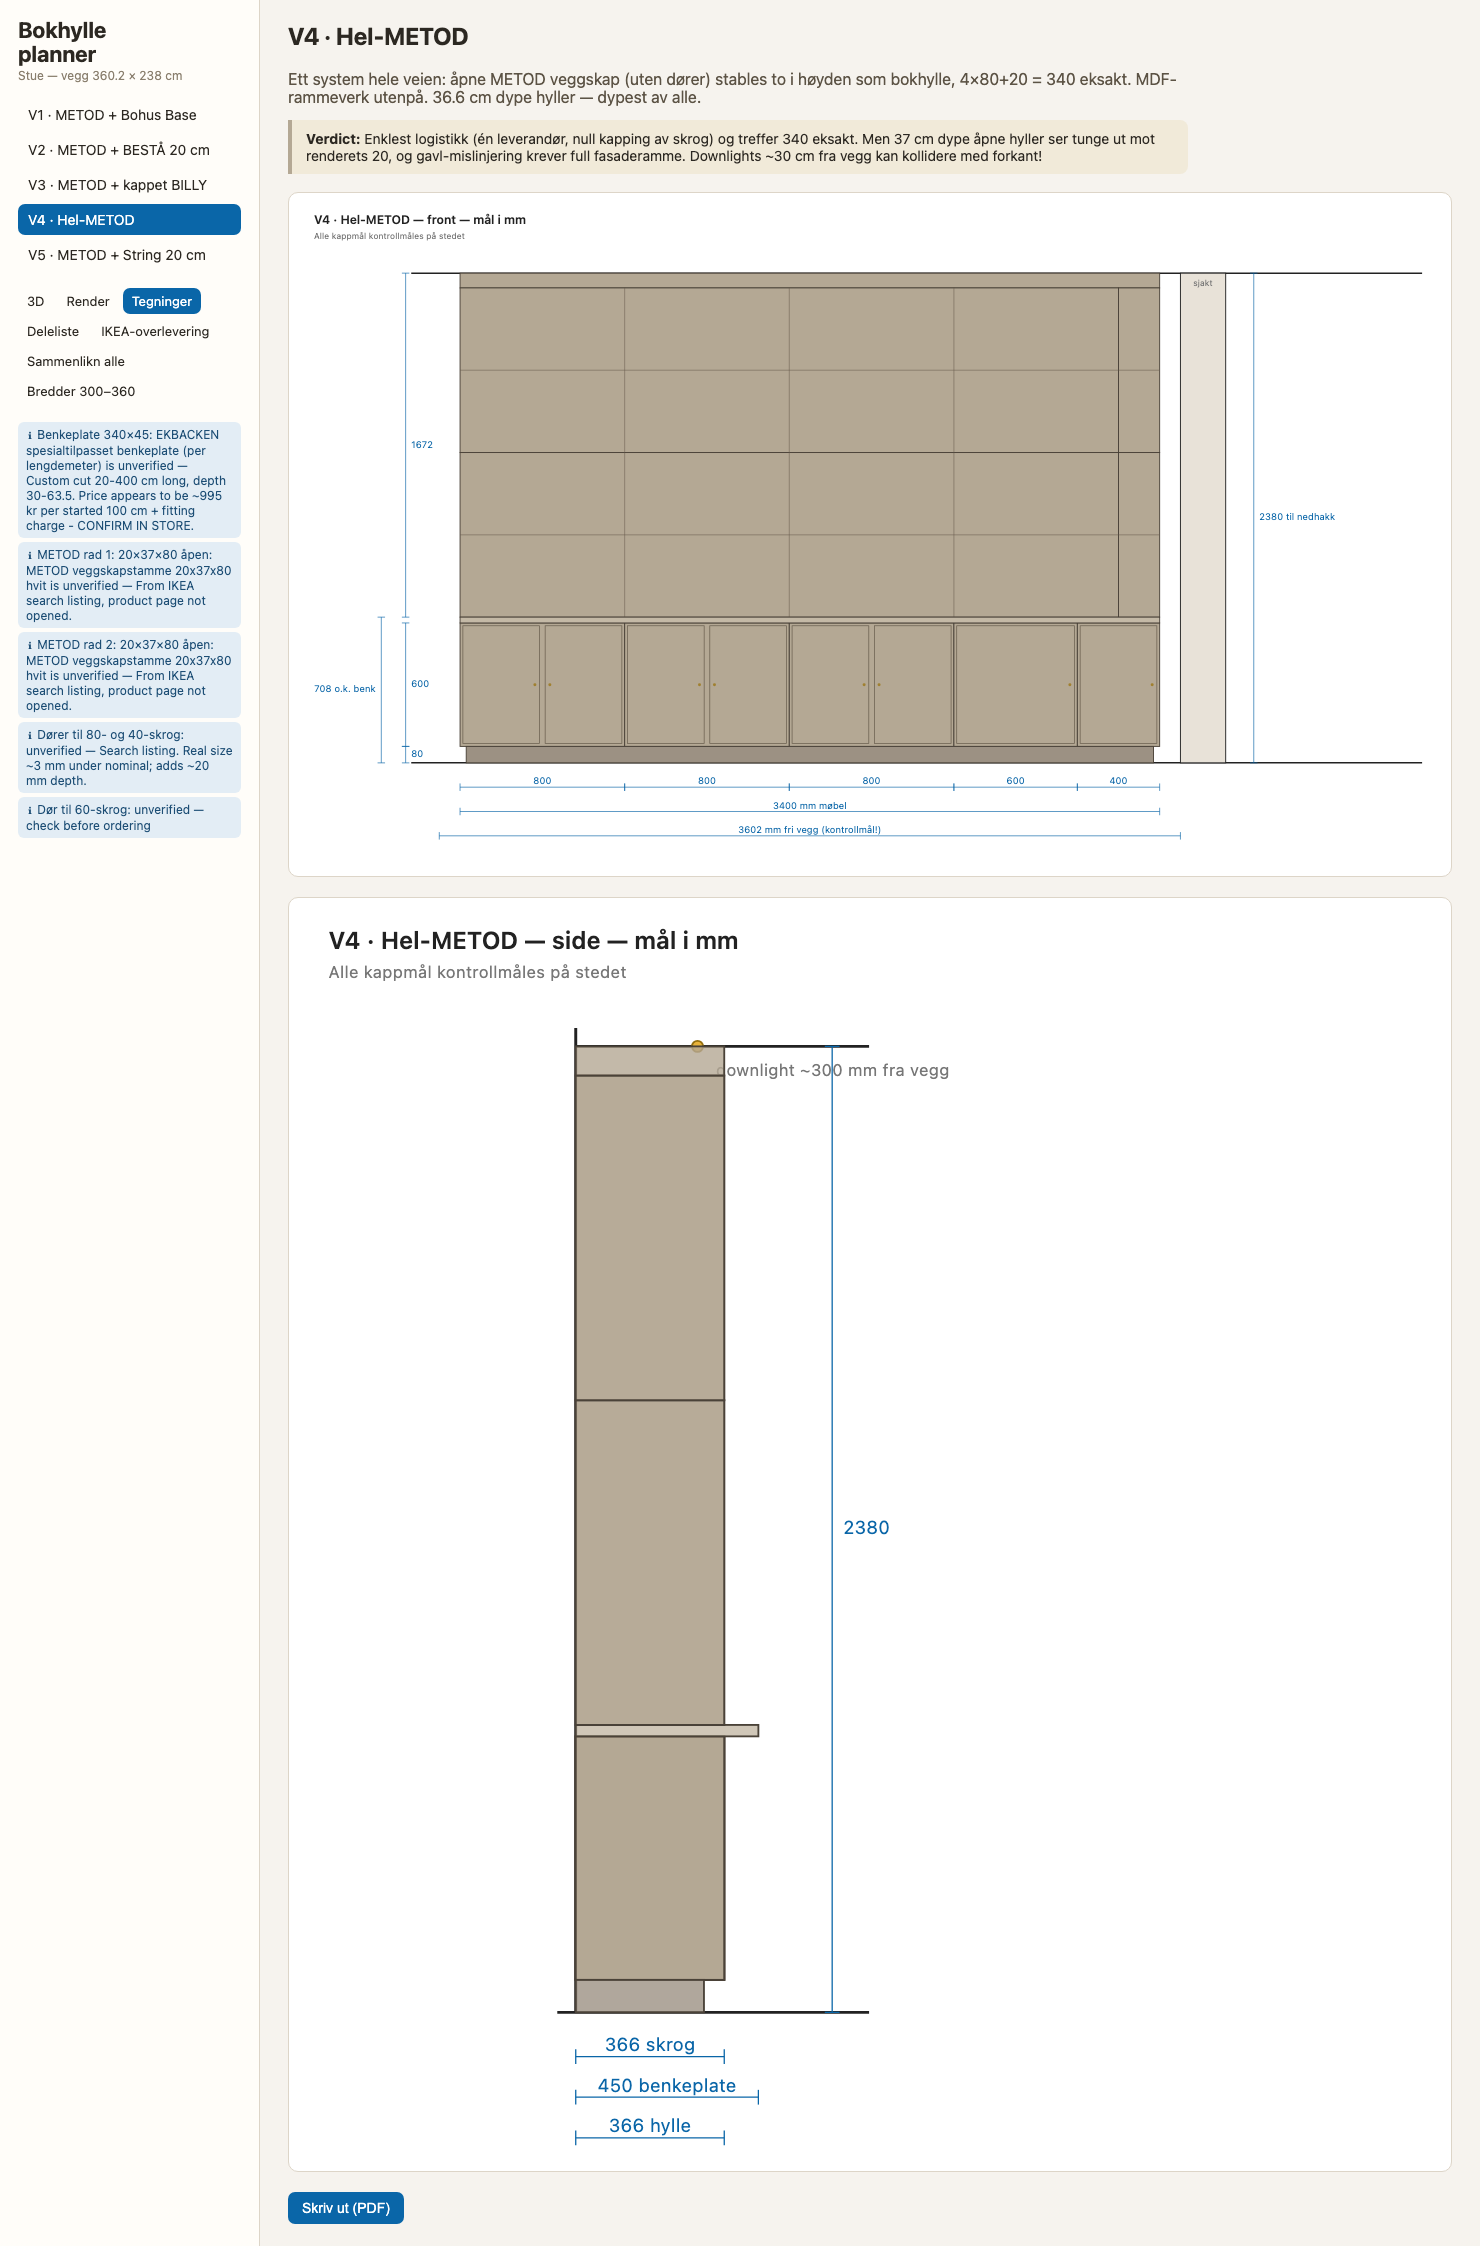
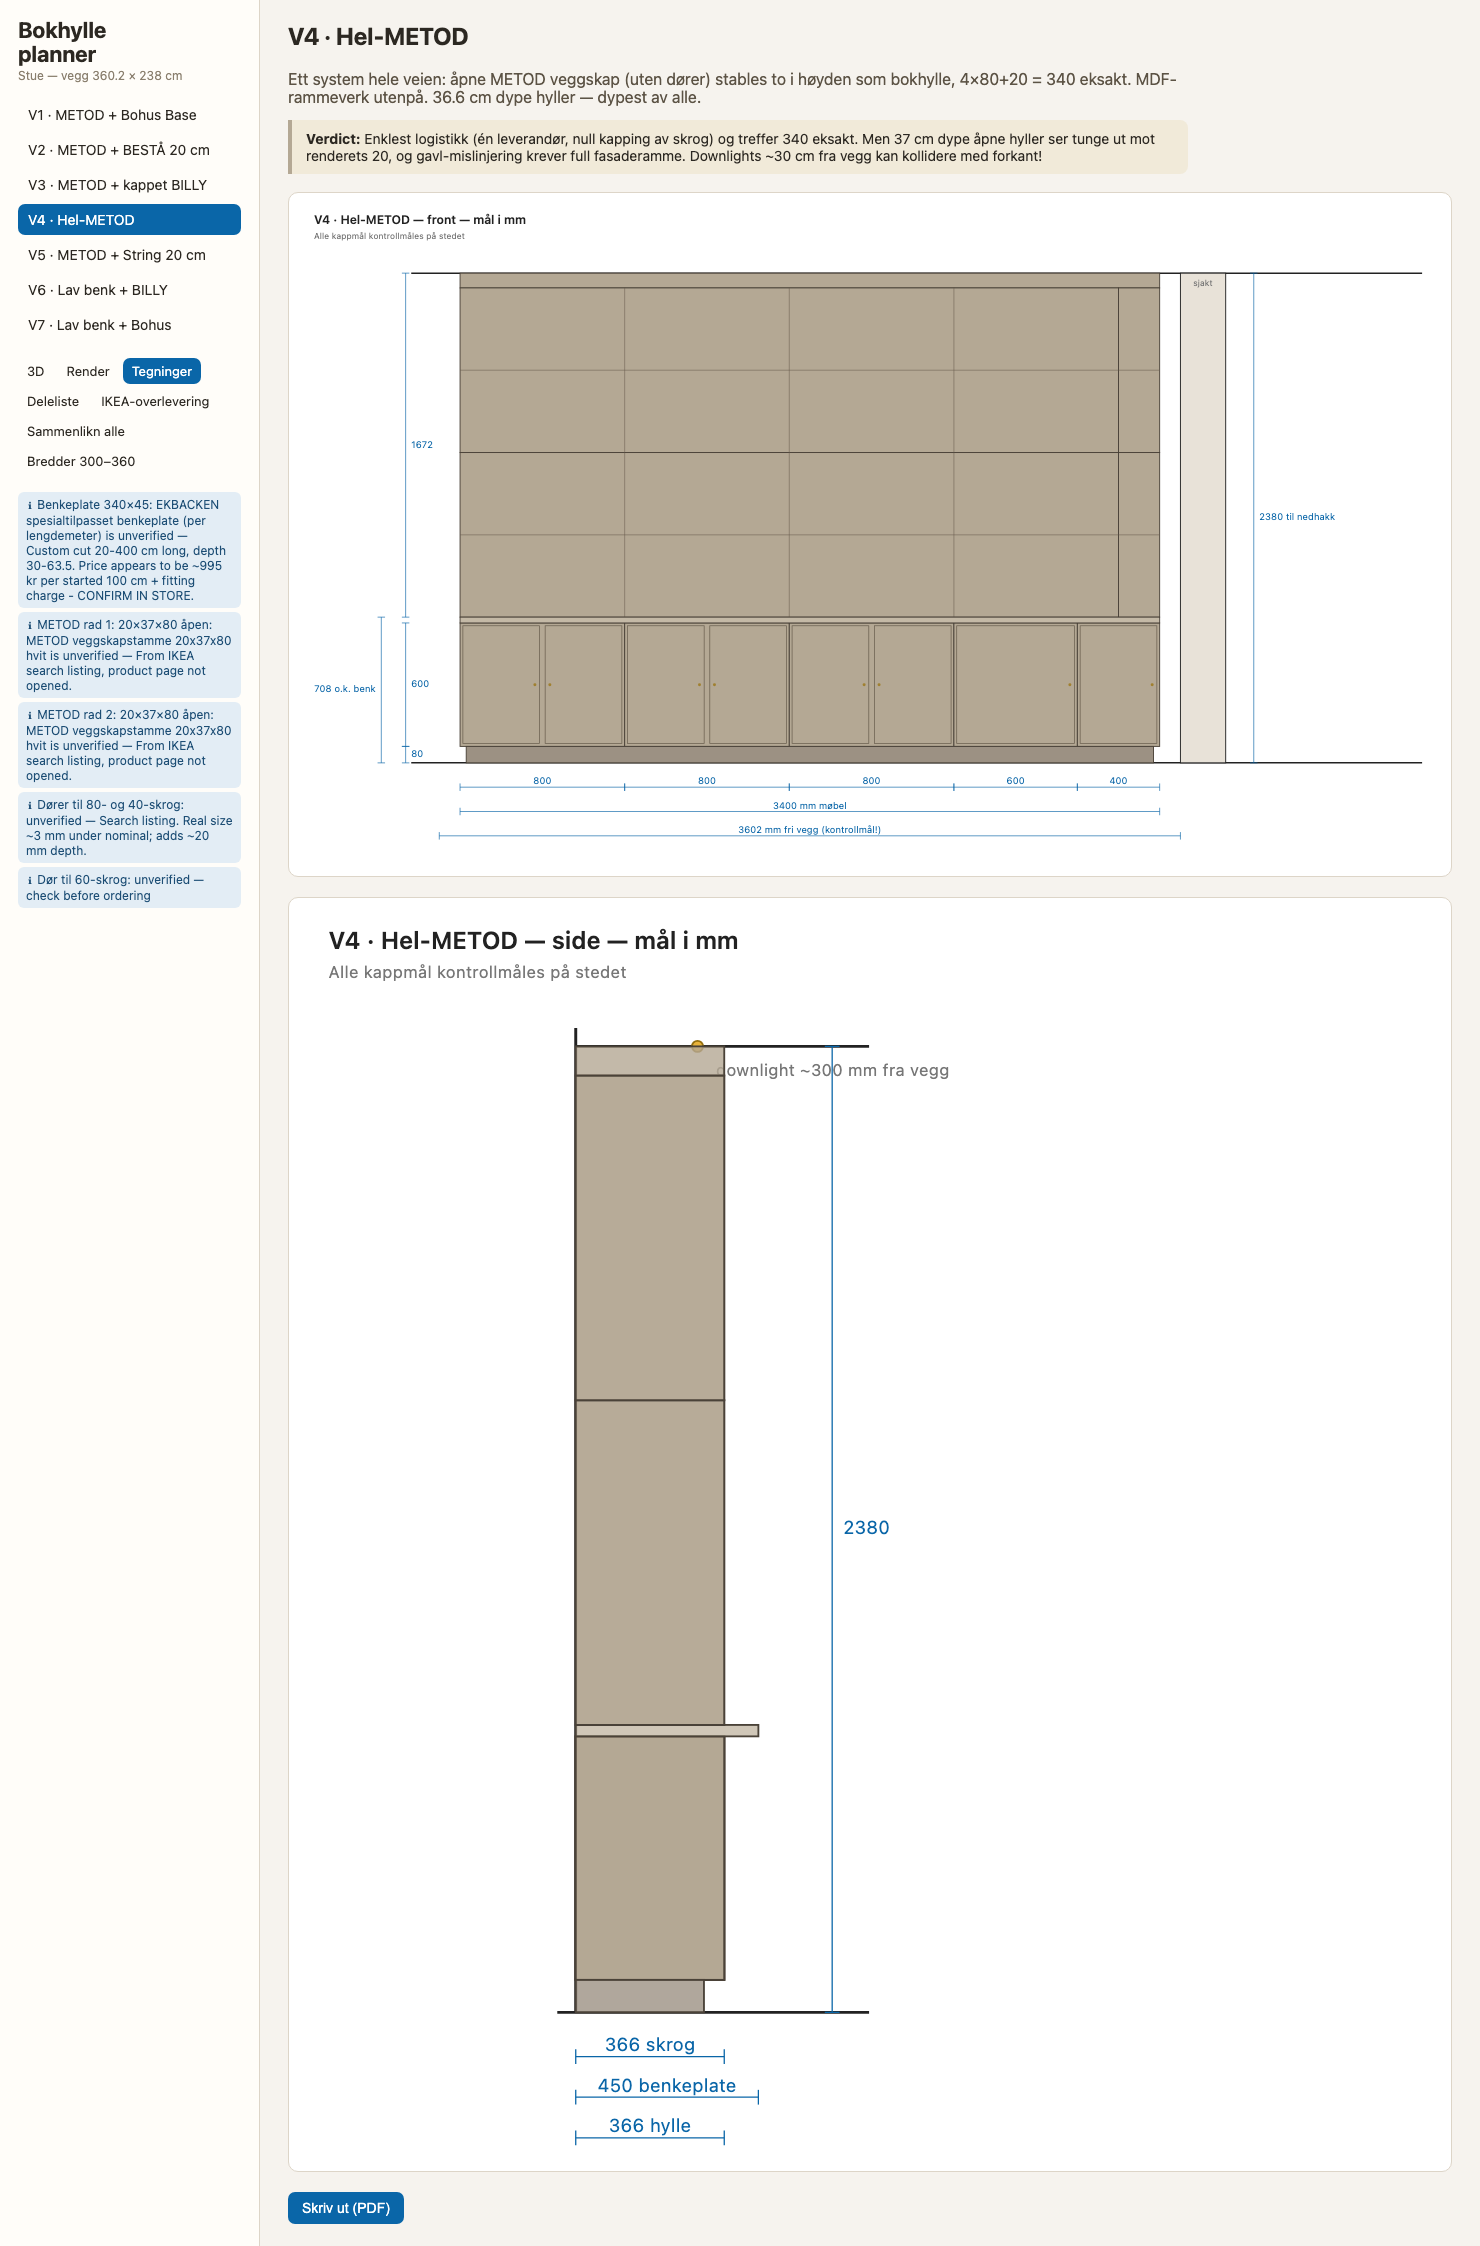
Low-bench variants V6/V7 (livingetc-style METOD 40 cm frames)
Bench drops to 50.8 cm (seat height): 4×80 METOD wall frames 80x37x40,
VEDDINGE 40x40 doors (no shaker front exists in 40-height - verified via
IKEA search), perfect gable alignment with the 80-wide uppers. BILLY/Bohus
cut only 17-18 cm from the top, gaining a sixth shelf level. Hand-audited
totals (V6 12540, V7 15836) encoded as tests; 49 unit + 38 e2e green.

Changed region(s): [[0.0, 0.1247, 0.1865, 0.4052]]

diff --git a/src/designs/variants.ts b/src/designs/variants.ts
@@ -4,9 +4,11 @@ import {
   TARGET_WIDTH,
   UNIT_X,
   UPPER_Y,
+  UPPER_Y_LOW,
   filler,
   mdfFraming,
   metodBase,
+  metodBaseLow,
   SITE_NOTES,
 } from "./common";
 
@@ -302,4 +304,98 @@ function v5(): Design {
   };
 }
 
-export const DESIGNS: Design[] = [v1(), v2(), v3(), v4(), v5()];
+const LOW_NOTES = [
+  "Lav benk (50.8 cm) er sittehøyde — forsterk platen med tverrlekt hvis den skal sittes på ved fronten (utheng 6–8 cm).",
+  "Shaker-dører finnes IKKE i 40-høyde — VEDDINGE er glatt. Shaker-look: lim MDF-lister på dørene, eller aksepter glatt base.",
+  "80-gavlene i basen flukter med overdelens gavler — lastbane rett ned, ingen klossing under platen nødvendig.",
+];
+
+/** V6 — low bench (livingetc-style) + BILLY cut to 185. */
+function v6(): Design {
+  const base = metodBaseLow();
+  const upperH = 1850;
+  const sideFill = 100; // same 4×80 rhythm as the base
+  const modules: Module[] = [
+    ...base.modules,
+    filler("fill-l", UNIT_X, UPPER_Y_LOW, upperH, sideFill, 280),
+    ...[0, 1, 2, 3].map((i) =>
+      shelfRun(`billy-${i}`, `BILLY ${i + 1} (kappet til 185)`, "billy-80x28x202", {
+        x: UNIT_X + sideFill + i * 800,
+        y: UPPER_Y_LOW,
+        w: 800,
+        d: 280,
+        h: upperH,
+        columns: 1,
+        shelves: 5,
+        cutNote: "Kapp kun 170 mm av TOPPEN (fabrikkbunn står på platen). Kappet som borejigg for topplate-hull; re-spikre bakplate.",
+      }),
+    ),
+    filler("fill-r", UNIT_X + sideFill + 3200, UPPER_Y_LOW, upperH, sideFill, 280),
+    ...mdfFraming(280, UPPER_Y_LOW + upperH),
+  ];
+  return {
+    id: "v6-lavbenk-billy",
+    name: "V6 · Lav benk + BILLY",
+    description:
+      "Livingetc-varianten: METOD veggskap 80×37×40 som sittebenk (50.8 cm) i stedet for sideboard-høyde. BILLY kappes bare 17 cm (til 185) og får 6 hyllenivåer. 4×80-rytme fra gulv til tak — alle gavler flukter.",
+    room: ROOM,
+    unitOffsetMm: UNIT_X,
+    targetWidthMm: TARGET_WIDTH,
+    modules,
+    extraParts: [
+      ...base.extraParts,
+      { itemId: "billy-extra-shelf-76x26", qty: 4, label: "Ekstra hylleplater" },
+    ],
+    siteNotes: [...SITE_NOTES, ...LOW_NOTES],
+    verdict:
+      "Billigst av alle (~12 500 kr), minst kapping (17 cm av toppen), perfekt gavlflukt og vindusbenk-følelse med puter. Men: bare 2/3 så mye lukket oppbevaring som V3, glatte dører (ingen shaker i 40-høyde), og proporsjonene avviker fra referansebildet — mer bibliotek, mindre sideboard.",
+  };
+}
+
+/** V7 — low bench + Bohus Base cut to 185. */
+function v7(): Design {
+  const base = metodBaseLow();
+  const upperH = 1850;
+  const bohusW = 790;
+  const runW = 4 * bohusW; // 3160
+  const sideFill = (TARGET_WIDTH - runW) / 2; // 120
+  const modules: Module[] = [
+    ...base.modules,
+    filler("fill-l", UNIT_X, UPPER_Y_LOW, upperH, sideFill, 267),
+    ...[0, 1, 2, 3].map((i) =>
+      shelfRun(`bohus-${i}`, `Bohus Base ${i + 1} (kappet til 185)`, "bohus-base-bokhylle-80", {
+        x: UNIT_X + sideFill + i * bohusW,
+        y: UPPER_Y_LOW,
+        w: bohusW,
+        d: 267,
+        h: upperH,
+        columns: 1,
+        shelves: 5,
+        cutNote: "Kapp ~180 mm av TOPPEN, re-monter topplaten (kappet som jigg). Erstatt/stiv av hyller med 18 mm MDF (orig. 13 kg).",
+      }),
+    ),
+    filler("fill-r", UNIT_X + sideFill + runW, UPPER_Y_LOW, upperH, sideFill, 267),
+    ...mdfFraming(267, UPPER_Y_LOW + upperH),
+  ];
+  return {
+    id: "v7-lavbenk-bohus",
+    name: "V7 · Lav benk + Bohus",
+    description:
+      "Som V6, men med Bohus Base-overdel (26.7 cm dyp) kappet til 185 cm. Base-gavler (80-rytme) og Bohus-gavler (79-rytme) flukter nesten — 1 cm glidning per skrog utover.",
+    room: ROOM,
+    unitOffsetMm: UNIT_X,
+    targetWidthMm: TARGET_WIDTH,
+    modules,
+    extraParts: base.extraParts,
+    siteNotes: [
+      ...SITE_NOTES,
+      ...LOW_NOTES,
+      "Bohus-hyllene tåler 13 kg — bytt/stiv av med 18 mm MDF ved boklast.",
+      "79 mot 80-rytme: opptil 3 cm gavl-glidning ytterst — legg kloss under platen ved ytterste Bohus-gavler.",
+    ],
+    verdict:
+      "Lav-benk-versjonen av V1: mer hyllehøyde (6 nivåer), mindre kapping enn V1 (18 cm mot 38). Samme svake Bohus-hyller, og glatte VEDDINGE-dører i basen. God mellomting hvis dere vil ha vindusbenk-looken.",
+  };
+}
+
+export const DESIGNS: Design[] = [v1(), v2(), v3(), v4(), v5(), v6(), v7()];

diff --git a/src/designs/common.ts b/src/designs/common.ts
@@ -20,6 +20,8 @@ export const TOP_H = 28;
 export const TOP_D = 450;
 export const TOP_Y = LEG_H + BASE_FRAME_H; // 680
 export const UPPER_Y = TOP_Y + TOP_H; // 708
+/** Low-bench stack (livingetc-style 40 cm frames): 80 + 400 + 28. */
+export const UPPER_Y_LOW = LEG_H + 400 + TOP_H; // 508
 
 const GREIGE = "#b4a894"; // render-ish painted grey-beige
 
@@ -91,6 +93,70 @@ export function metodBase(): { modules: Module[]; extraParts: ExtraPart[] } {
   ];
 
   return { modules, extraParts };
+}
+
+/** Low bench (benk i sittehøyde, som livingetc-METOD-hacken): 4× METOD
+ * veggskap 80×37×40 på sokkel, 100 mm foring per side. Kun 40×40-dører
+ * finnes i denne høyden (glatte, ingen shaker) — VEDDINGE. 80-gavlene
+ * flukter perfekt med 80-brede overdeler. */
+export function metodBaseLow(): { modules: Module[]; extraParts: ExtraPart[] } {
+  const frameH = 400;
+  const modules: Module[] = [];
+  const sideFill = 100;
+  for (let i = 0; i < 4; i++) {
+    modules.push({
+      id: `base-${i}`,
+      label: `METOD 80 lav`,
+      kind: "cabinet",
+      source: { type: "catalogue", itemId: "metod-wall-80x37x40", qty: 1 },
+      x: UNIT_X + sideFill + i * 800,
+      y: LEG_H,
+      z: 0,
+      w: 800,
+      d: BASE_FRAME_D,
+      h: frameH,
+      doors: 2,
+      colorHex: GREIGE,
+    });
+  }
+  modules.push(
+    filler("bfill-l", UNIT_X, LEG_H, frameH, sideFill, BASE_FRAME_D),
+    filler("bfill-r", UNIT_X + sideFill + 3200, LEG_H, frameH, sideFill, BASE_FRAME_D),
+    {
+      id: "plinth",
+      label: "Sokkel (malt MDF)",
+      kind: "plinth",
+      source: { type: "custom", material: "19 mm MDF, malt" },
+      x: UNIT_X + 30,
+      y: 0,
+      z: 0,
+      w: TARGET_WIDTH - 60,
+      d: BASE_FRAME_D - 50,
+      h: LEG_H,
+      colorHex: "#9c9183",
+    },
+    {
+      id: "top",
+      label: "Benkeplate 340×45 (sittebenk)",
+      kind: "top",
+      source: { type: "catalogue", itemId: "ekbacken-custom-top", qty: 4 },
+      x: UNIT_X,
+      y: LEG_H + frameH,
+      z: 0,
+      w: TARGET_WIDTH,
+      d: TOP_D,
+      h: TOP_H,
+      cut: { note: "EKBACKEN spesialtilpasset 3400×450 mm, eller snekkerlevert plate" },
+      colorHex: "#c4b9a6",
+    },
+  );
+  return {
+    modules,
+    extraParts: [
+      { itemId: "metod-leg-8cm-2pk", qty: 16, label: "METOD ben (4 per skrog)" },
+      { itemId: "veddinge-door-40x40", qty: 8, label: "Dører (glatte — shaker finnes ikke i 40-høyde)" },
+    ],
+  };
 }
 
 /** Crown/scribe closing the gap between unit top and soffit. Side cladding is

diff --git a/src/model/audit.test.ts b/src/model/audit.test.ts
@@ -12,12 +12,18 @@ import { bestCombo, planWidth, widthSweep, BASE_WIDTHS, BILLY_WIDTHS, BOHUS_WIDT
  *  V4 = 9671 + 8×545 + 2×335            = 14701
  *  V5 = 9671 + 6×1050 + 4×1260 + 5×1150 = 26761
  *  Unverified share: doors 2560 + top 3980 = 6540 (V4 also 2×335 → 7210) */
+/** Low bench (V6/V7): frames 4×455 (1820) + VEDDINGE doors 8×230 (1840)
+ *  + legs 8 packs × 75 (600) + EKBACKEN 4 m (3980) = 8240.
+ *  V6 = 8240 + 4×(895+180) = 12540; V7 = 8240 + 4×1899 = 15836.
+ *  Unverified: doors 1840 + top 3980 = 5820. */
 const EXPECTED: Record<string, { total: number; unverified: number }> = {
   "v1-bohus": { total: 17267, unverified: 6540 },
   "v2-besta": { total: 17596, unverified: 6540 },
   "v3-billy": { total: 13971, unverified: 6540 },
   "v4-metod": { total: 14701, unverified: 7210 },
   "v5-string": { total: 26761, unverified: 6540 },
+  "v6-lavbenk-billy": { total: 12540, unverified: 5820 },
+  "v7-lavbenk-bohus": { total: 15836, unverified: 5820 },
 };
 
 describe("cost audit (hand-computed expectations)", () => {

diff --git a/e2e/app.spec.ts b/e2e/app.spec.ts
@@ -1,6 +1,14 @@
 import { expect, test } from "@playwright/test";
 
-const DESIGNS = ["v1-bohus", "v2-besta", "v3-billy", "v4-metod", "v5-string"];
+const DESIGNS = [
+  "v1-bohus",
+  "v2-besta",
+  "v3-billy",
+  "v4-metod",
+  "v5-string",
+  "v6-lavbenk-billy",
+  "v7-lavbenk-bohus",
+];
 
 for (const id of DESIGNS) {
   test(`${id}: 3D view renders`, async ({ page }) => {
@@ -41,11 +49,11 @@ for (const id of DESIGNS) {
   });
 }
 
-test("comparison shows all five variants", async ({ page }) => {
+test("comparison shows all seven variants", async ({ page }) => {
   await page.goto(`/#/v1-bohus/sammenlikn`);
   const table = page.locator("table.compare");
   await expect(table).toBeVisible();
-  for (const id of ["V1", "V2", "V3", "V4", "V5"]) {
+  for (const id of ["V1", "V2", "V3", "V4", "V5", "V6", "V7"]) {
     await expect(table).toContainText(id);
   }
   await page.screenshot({ path: "docs/screenshots/sammenlikn.png", fullPage: true });

diff --git a/src/model/model.test.ts b/src/model/model.test.ts
@@ -30,8 +30,8 @@ describe("METOD base", () => {
 });
 
 describe("designs", () => {
-  it("has five variants", () => {
-    expect(DESIGNS).toHaveLength(5);
+  it("has seven variants", () => {
+    expect(DESIGNS).toHaveLength(7);
   });
 
   for (const d of DESIGNS) {

diff --git a/docs/variants.md b/docs/variants.md
@@ -1,4 +1,4 @@
-# De fem variantene — sammenlikning
+# Variantene — sammenlikning
 
 Generert fra plannerens datamodell 2026-10-03. Tall = kjøpte deler inkl. felles
 METOD-base (~9 700 kr, hvorav dører ~2 560 kr og benkeplate ~3 980 kr har
@@ -65,6 +65,30 @@ bare for String-delene).
 
 ![V5 3D](screenshots/v5-string-3d.png)
 ![V5 tegning](screenshots/v5-string-tegning.png)
+
+## V6 / V7 · Lav benk (livingetc-varianten) — *sittebenk i stedet for sideboard*
+
+Basen byttes til METOD veggskap **80×37×40**: sokkel 8 + skrog 40 + plate 2.8 =
+**50.8 cm sittebenk** (vindusbenk med puter). 4×80 + 10 cm foring per side —
+**alle gavler flukter med 80-overdelene**, så lasten går rett ned uten klossing.
+Det som endres mot V1/V3:
+
+| | V3 (høy, 70.8) | **V6 (lav, 50.8) + BILLY** | V1 (høy) | **V7 (lav) + Bohus** |
+|---|---|---|---|---|
+| Kjøpte deler | 13 971 kr | **12 540 kr** | 17 267 kr | **15 836 kr** |
+| Kapping av overdel | 37 cm av toppen | **17 cm** | 38 cm | **18 cm** |
+| Hyllenivåer | 5 | **6** | 5 | 6 |
+| Lukket oppbevaring | 60 cm høyt | **40 cm (−33 %)** | 60 | 40 |
+| Dører | STENSUND shaker | **VEDDINGE glatt** — shaker finnes IKKE i 40-høyde (verifisert: ingen STENSUND/BODBYN 40×40). Shaker-look = pålimte MDF-lister | shaker | glatt |
+| Gavlflukt base↔overdel | delvis (80/60/40 mot 80) | **perfekt** | delvis | nesten (79 mot 80) |
+
+![V6 render](screenshots/v6-lavbenk-billy-render.png)
+
+**Ærlig vurdering:** V6 er billigst og byggeteknisk enklest/tryggest av alle,
+og benken blir sitteplass under vinduet-følelse. Men proporsjonene blir
+«bibliotek», ikke referansebildets sideboard-tyngde, dørene blir glatte, og
+dere mister en tredjedel av skapvolumet. Velg på looken (Render-fanen viser
+begge) og på om dere faktisk vil sitte der.
 
 ## Anbefaling
 

diff --git a/README.md b/README.md
@@ -29,6 +29,8 @@ Se `docs/variants.md` for full sammenlikning med tall, eller «Sammenlikn alle»
 | V3 | 4× BILLY 80 kappet til 165 | 280 | ~14 000 kr |
 | V4 | Åpne METOD veggskap 2×80 høyt | 366 | ~14 700 kr |
 | V5 | String-system vegghengt | 200 | ~26 800 kr |
+| V6 | **Lav benk (50.8)** + BILLY kappet til 185 | 280 | ~12 500 kr |
+| V7 | **Lav benk (50.8)** + Bohus kappet til 185 | 267 | ~15 800 kr |
 
 Alle deler basen: METOD veggskap 3×80+60+40 på 8 cm ben (det finnes **ikke**
 60 cm høye METOD *benkeskap* — veggskap på ben er trikset), STENSUND-dører,
